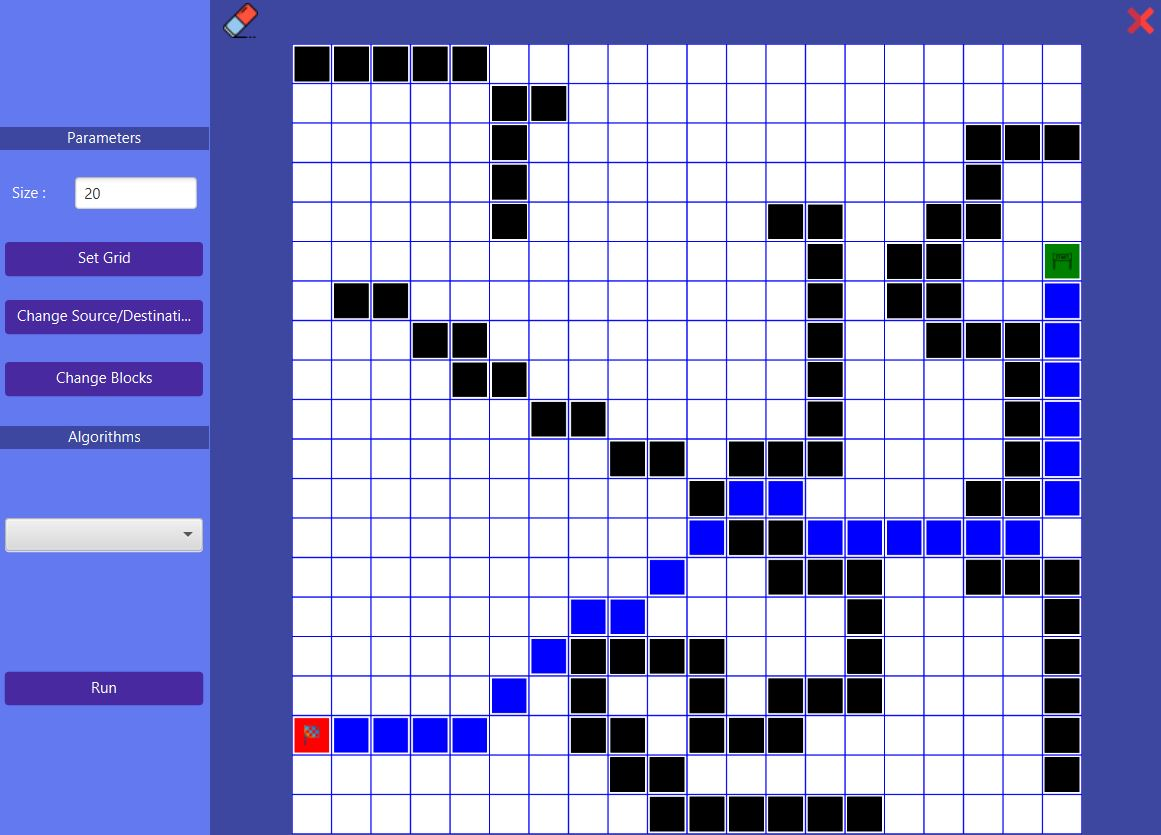
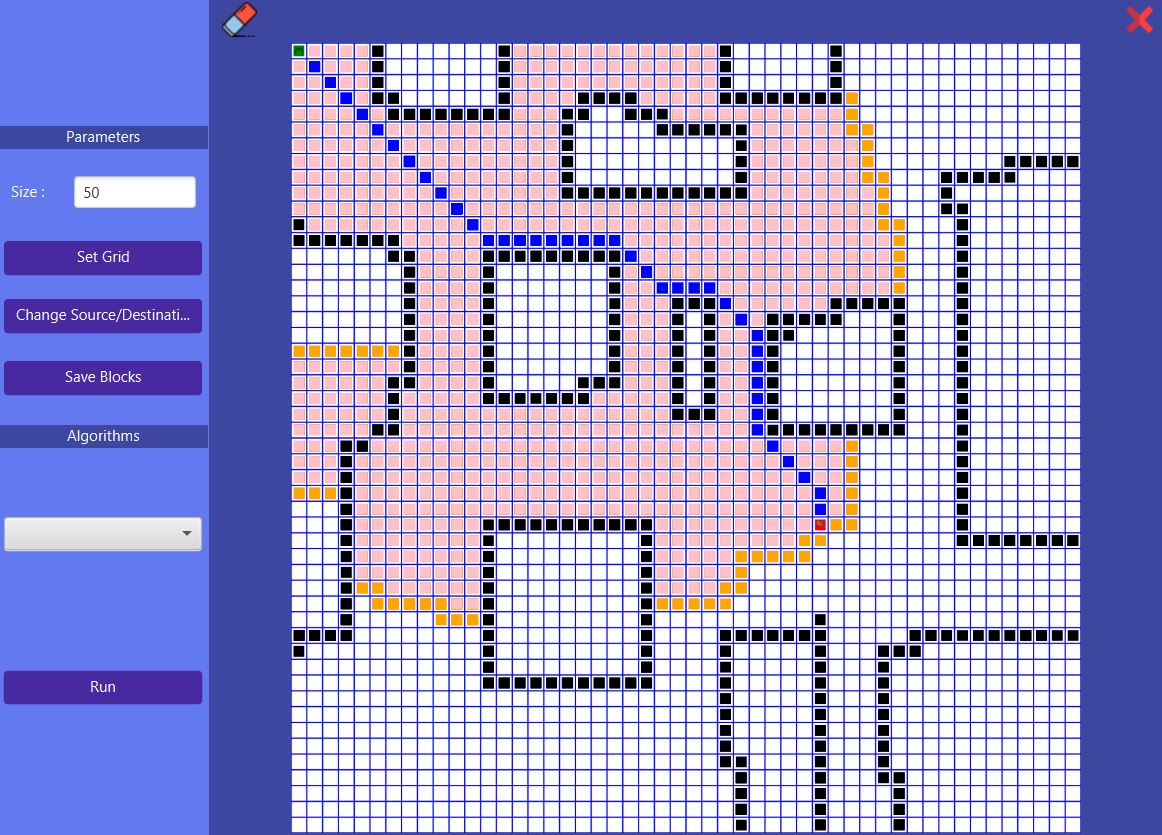
Backend/Frontend : A* algo canvas draw step by step

diff --git a/src/main/java/frontend/controllers/Controller.java b/src/main/java/frontend/controllers/Controller.java
@@ -22,9 +22,8 @@ import main.java.backend.services.AStar;
 import java.io.FileInputStream;
 import java.io.FileNotFoundException;
 import java.net.URL;
-import java.util.ArrayList;
-import java.util.List;
-import java.util.ResourceBundle;
+import java.util.*;
+import java.util.concurrent.TimeUnit;
 
 public class Controller implements Initializable {
 
@@ -63,7 +62,7 @@ public class Controller implements Initializable {
     private double pressedY;
     private int eraserClicks =0;
     List<Cell> path = new ArrayList<>();
-
+    int closedSize =0;
     @Override
     public void initialize(URL url, ResourceBundle resourceBundle) {
         gridSize.textProperty().addListener(new ChangeListener<String>() {
@@ -84,6 +83,10 @@ public class Controller implements Initializable {
     public void handleClicks(MouseEvent event) {
         if(event.getSource()==btnSetGrid){
             try {
+                path = new ArrayList<>();
+                source = null;
+                destination = null;
+                src_dist_clicks = 0;
                 int size = Integer.parseInt(gridSize.getText());
                 Grid grid = new Grid(size,canvas.getHeight(),canvas.getWidth());
                 this.grid = grid;
@@ -91,8 +94,6 @@ public class Controller implements Initializable {
                 GraphicsContext gc = this.canvas.getGraphicsContext2D();
                 draw(gc,grid);
                 btnAddSrcDst.setDisable(false);
-                //source =null;
-                //destination = null;
             }catch (Exception e){
                 Alert a = new Alert(Alert.AlertType.WARNING);
                 a.setTitle("Warning");
@@ -255,6 +256,20 @@ public class Controller implements Initializable {
         }
     }
 
+    private void drawOpenCell(Cell cell, GraphicsContext gc) {
+        if(cell != null && cell!=source && cell != destination){
+            gc.setFill(Color.ORANGE);
+            gc.fillRect(cell.getX()+2,cell.getY()+2,cellWidth-4,cellWidth-4);
+        }
+    }
+
+    private void drawClosedCell(Cell cell, GraphicsContext gc) {
+        if(cell != null && cell!=source && cell != destination){
+            gc.setFill(Color.PINK);
+            gc.fillRect(cell.getX()+2,cell.getY()+2,cellWidth-4,cellWidth-4);
+        }
+    }
+
     private void eraseCell(Cell cell, GraphicsContext gc) {
         if(cell != null && cell!=source && cell != destination){
             gc.setFill(Color.WHITE);
@@ -320,9 +335,40 @@ public class Controller implements Initializable {
             for(Cell cell:path) eraseCell(cell,gc);
         }
         path = aStar.runAStar();
-        gc = canvas.getGraphicsContext2D();
-        for(Cell cell:path) {
-            drawCellPath(cell,gc);
+        closedSize = aStar.getClosedStates().size();
+        Timer myTimer = new Timer();
+        synchronized (this){
+            myTimer.scheduleAtFixedRate(new TimerTask() {
+                @Override
+                public void run() {
+                    if(closedSize>0){
+                        GraphicsContext gc = canvas.getGraphicsContext2D();
+                        for(Cell cell:aStar.getOpenStates().get(aStar.getClosedStates().size()-closedSize)){
+                            drawOpenCell(cell,gc);
+                        }
+                        drawClosedCell(aStar.getClosedStates().get(aStar.getClosedStates().size()-closedSize),gc);
+                        closedSize--;
+                    }else{
+                        for(Cell cell:path) {
+                            drawCellPath(cell,gc);
+                        }
+                    }
+
+                }
+            }, 0, 100);
+
         }
+
+    }
+
+
+    public static void main(String[] args) {
+        Timer myTimer = new Timer();
+        myTimer.scheduleAtFixedRate(new TimerTask() {
+            @Override
+            public void run() {
+                System.out.println("hi");
+            }
+        }, 0, 1000);
     }
 }

diff --git a/src/main/java/backend/services/AStar.java b/src/main/java/backend/services/AStar.java
@@ -1,7 +1,6 @@
 package main.java.backend.services;
 
 import main.java.backend.models.Cell;
-import main.java.backend.models.Grid;
 
 import java.util.ArrayList;
 import java.util.List;
@@ -16,6 +15,9 @@ public class AStar {
     boolean closed[][];
     Cell source;
     Cell destination;
+
+    List<List<Cell>> openStates = new ArrayList<>();
+    List<Cell> closedStates = new ArrayList<>();
 
     public AStar(Cell source, Cell destination, List<List<Cell>> grid){
         this.source = source;
@@ -50,6 +52,14 @@ public class AStar {
         this.destination = destination;
     }
 
+    public List<List<Cell>> getOpenStates() {
+        return openStates;
+    }
+
+    public List<Cell> getClosedStates() {
+        return closedStates;
+    }
+
     public void checkAndUpdateCost(Cell current, Cell t, int cost){
         if(t.getValue() == -1 || closed[t.getI()][t.getJ()])return;
         //if(t == null || closed[t.getI()][t.getJ()])return;
@@ -70,9 +80,15 @@ public class AStar {
         List<Cell> path ;
         Cell current;
         while(true){
+            List<Cell> currentOpen = new ArrayList<>();
+            for(Cell cell : open) currentOpen.add(cell);
+            openStates.add(currentOpen);
+
             current = open.poll();
             if(current.getValue()==-1)break;
             //if(current==null)break;
+
+            closedStates.add(current);
             closed[current.getI()][current.getJ()]=true;
 
             if(current.equals(destination)){

diff --git a/README.md b/README.md
@@ -1,7 +1,8 @@
 ## Path Finding Visualizer
 A JavaFX Application that visualizes the most famous PATH FINDING Algorithms (A*, Dijkstra).
 
+![](demo/demo-0.JPG)
+
 ![](demo/demo-1.JPG)
 
 ![](demo/demo-2.JPG)
-
